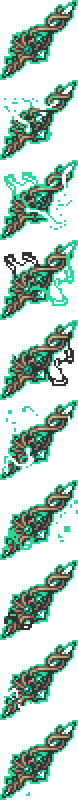
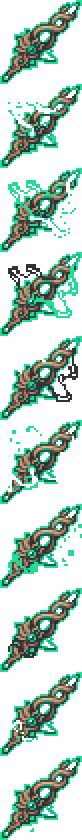
Resprited Penetrator. Removed unneccessary tooltip overrides in Mutant Armor.

diff --git a/Content/Items/Armor/MutantBody.cs b/Content/Items/Armor/MutantBody.cs
@@ -38,18 +38,6 @@ namespace FargowiltasSouls.Content.Items.Armor
             player.lifeRegenCount += 7;
             player.lifeRegenTime += 7;
         }
-
-        public override void SafeModifyTooltips(List<TooltipLine> list)
-        {
-            foreach (TooltipLine line2 in list)
-            {
-                if (line2.Mod == "Terraria" && line2.Name == "ItemName")
-                {
-                    line2.OverrideColor = new Color(Main.DiscoR, 51, 255 - (int)(Main.DiscoR * 0.4));
-                }
-            }
-        }
-
         public override void AddRecipes()
         {
             CreateRecipe()

diff --git a/Content/Items/Armor/MutantPants.cs b/Content/Items/Armor/MutantPants.cs
@@ -33,17 +33,6 @@ namespace FargowiltasSouls.Content.Items.Armor
             player.GetAttackSpeed(DamageClass.Melee) += 0.4f;
         }
 
-        public override void SafeModifyTooltips(List<TooltipLine> list)
-        {
-            foreach (TooltipLine line2 in list)
-            {
-                if (line2.Mod == "Terraria" && line2.Name == "ItemName")
-                {
-                    line2.OverrideColor = new Color(Main.DiscoR, 51, 255 - (int)(Main.DiscoR * 0.4));
-                }
-            }
-        }
-
         public override void AddRecipes()
         {
             CreateRecipe()

diff --git a/Content/Items/Armor/MutantMask.cs b/Content/Items/Armor/MutantMask.cs
@@ -80,17 +80,6 @@ namespace FargowiltasSouls.Content.Items.Armor
             player.FargoSouls().AttackSpeed += .2f;
         }
 
-        public override void SafeModifyTooltips(List<TooltipLine> list)
-        {
-            foreach (TooltipLine line2 in list)
-            {
-                if (line2.Mod == "Terraria" && line2.Name == "ItemName")
-                {
-                    line2.OverrideColor = new Color(Main.DiscoR, 51, 255 - (int)(Main.DiscoR * 0.4));
-                }
-            }
-        }
-
         public override void AddRecipes()
         {
             CreateRecipe()
